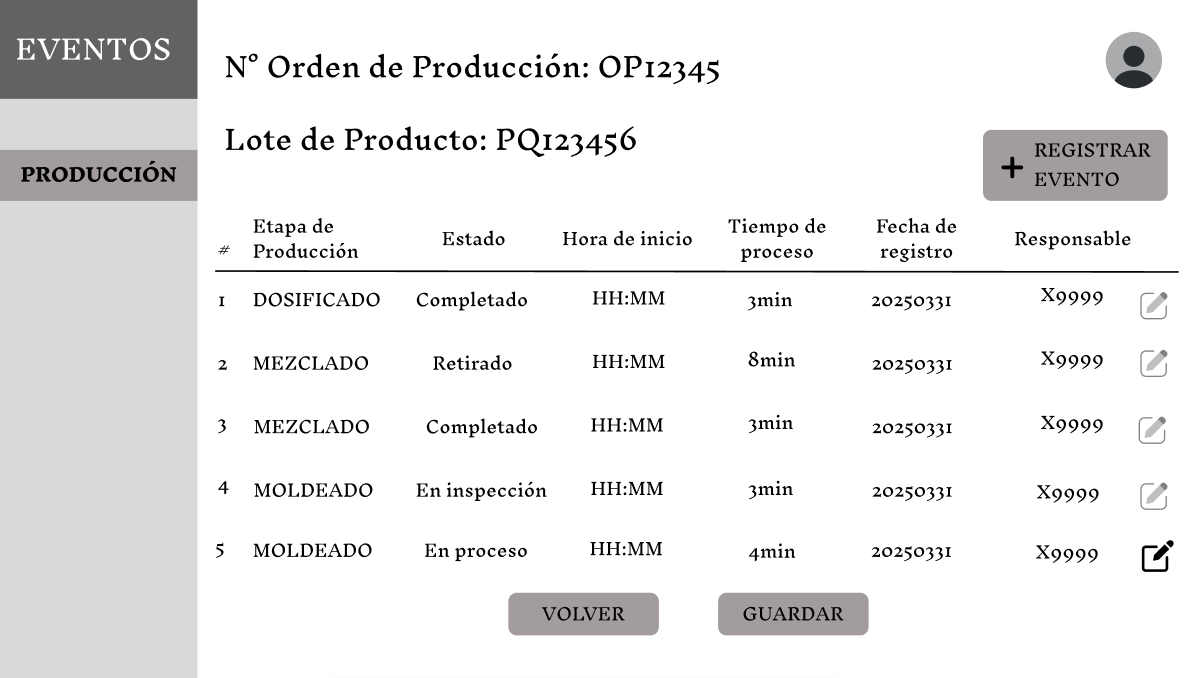
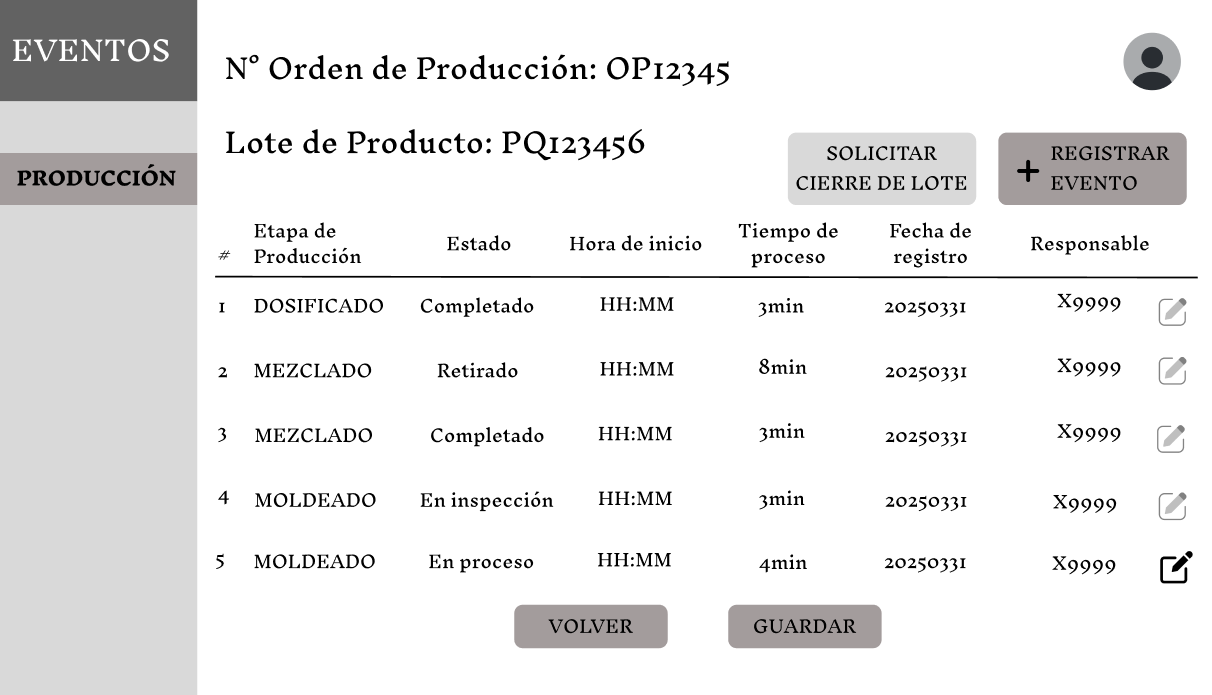
Requerimientos y prototipos de Proceso Productivo

diff --git a/3/3.1/3.1.md b/3/3.1/3.1.md
@@ -1,3 +1,129 @@
-# 3.1. Módulo 1
+# **3.1. Módulo Proceso Productivo**
 
-Sample content for section 3.1.
+## **Caso de uso #1: Visualizar eventos por lote**
+
+| **ID**                         | CU-01                                                                 |
+|-------------------------------|------------------------------------------------------------------------|
+| **Actor(es)**                  | Operario de Producción                         |
+| **Descripción**                | Muestra una tabla con todos los eventos de un lote, permitiendo su visualización, el poder agregar eventos y el cerrar el Lote de Producción. |
+| **Precondiciones**             | El usuario debe haber iniciado sesión y debe existir una Orden de Producción con Lote activo. |
+| **Flujo Principal**            | 1. El usuario accede a la vista de Lotes por Orden de Producción.<br>2. Selecciona un Lote de Producción.<br>3. Visualiza la tabla con los eventos.<br>4. Puede registrar eventos o solicitar el cierre del lote (si se ha culminado). |
+| **Requerimientos Especiales** | Orden de Producción con Lote activo. |
+| **Frecuencia de Uso**          | Constante. Orientado a usuarios paramétricos.                  |
+
+### **Flujo Principal:**
+1. El operario de Producción ingresa a la vista de Lotes por Orden de Producción. 
+![Lotes por Orden de Produccion](Prototipos/Control_Lotes_Produccion.png)
+2. Si el empleado escoge "Detalle" se visualizarán todos los eventos relacionados a un Lote de Producto. Mientras no tengan el estado de "Completado" o "En inspección" podrá editarlos.
+![Eventos por Lote](Prototipos/Vista_Eventos_Por_Lote.png)
+3. Si el operario escoge "Registrar evento" se desplagará una vista donde podrá elegir el tipo de evento que quiere registrar.
+![Vista Tipo de Evento](Prototipos/Registrar_Tipo_Evento.png)
+
+## **Caso de uso #2: Registrar datos del Dosificado**
+
+| **ID**                         | CU-02                                                                 |
+|-------------------------------|------------------------------------------------------------------------|
+| **Actor(es)**                  | Operario de Producción                                                 |
+| **Descripción**                | El operario ingresa el valor de las cantidades medidas de los insumos requeridos de acuerdo a la formulación. |
+| **Precondiciones**             | El usuario debe haber iniciado sesión y debe existir una Orden de Producción con Lote activo. |
+| **Flujo Principal**            | 1. El usuario elige el botón de "Registrar evento" desde la vista de eventos.<br>2. El sistema muestra la vista con los tipos de evento.<br>3. El usuario elige el evento de Dosificado<br>4. El usuario registra las cantidades dosificadas según el insumo mostrado, hora de inicio y hora de fin del proceso.<br>5. Se guarda el evento con fecha y responsable.<br>6. Se marca como completado.<br>5. Se envía a Control de Calidad. |
+| **Requerimientos Especiales** | Orden de Producción con Lote activo.       |
+| **Frecuencia de Uso**          | Constante. Orientado a usuarios paramétricos.                                 |
+
+### **Flujo Principal:**
+1. El operario eligió el botón de "Registrar Evento" de la vista de eventos por Lote.
+![Vista Tipo de Evento](Prototipos/Registrar_Tipo_Evento.png)
+2. Si el empleado escoge "Dosificado" se mostrará la pantalla donde tendrá que ingresar cada valor solicitado. La fecha y el responsable se registra automáticamente. Podrá editar los datos mientras no lo marque como completado.
+![Registro Dosificado](Prototipos/Registrar_Evento_Dosificado.png)
+3. Si lo marca como completado, el proceso se enviará a Control de Calidad y pasará al estado de "En inspección", una vez aprobado regresará al estado de "Completado".
+
+## **Caso de uso #3: Registrar datos del Mezclado**
+
+| **ID**                         | CU-03                                                                 |
+|-------------------------------|------------------------------------------------------------------------|
+| **Actor(es)**                  | Operario de Producción                                                 |
+| **Descripción**                | El operador registra los datos resaltantes para el evento de mezclado, como: máquina usada, tiempo del proceso, hora de inicio, merma, sus parámetros, etc. |
+| **Precondiciones**             | El lote debe haber sido dosificado previamente y haber pasado Control de Calidad.                       |
+| **Flujo Principal**            | 1. El usuario elige el botón de "Registrar evento" desde la vista de eventos.<br>2. El sistema muestra la vista con los tipos de evento.<br>3. El usuario elige el evento de Mezclado<br>4. El usuario registra la máquina usada, tiempo del proceso, hora de inicio, merma, sus parámetros, etc.<br>5. Se guarda el evento con fecha y responsable.<br>6. Se marca como completado.<br>5. Se envía a Control de Calidad. |
+| **Requerimientos Especiales** | Validación del evento de Dosificado por Control de Calidad.        |
+| **Frecuencia de Uso**          | Constante. Orientado a usuarios paramétricos.                                   |
+
+### **Flujo Principal:**
+1. El operario eligió el botón de "Registrar Evento" de la vista de eventos por Lote.
+![Vista Tipo de Evento](Prototipos/Registrar_Tipo_Evento.png)
+2. Si el empleado escoge "Mezclado" se mostrará la pantalla donde tendrá que ingresar cada valor solicitado. La fecha y el responsable se registra automáticamente. Podrá editar los datos mientras no lo marque como completado.
+![Registro Mezclado](Prototipos/Registrar_Evento_Mezclado.png)
+3. Si lo marca como completado, el proceso se enviará a Control de Calidad y pasará al estado de "En inspección", una vez aprobado regresará al estado de "Completado".
+
+## **Caso de uso #4: Registrar datos del Moldeado**
+
+| **ID**                         | CU-04                                                                 |
+|-------------------------------|------------------------------------------------------------------------|
+| **Actor(es)**                  | Operario de Producción                                                 |
+| **Descripción**                | El operador registra los datos resaltantes para el evento de moldeado, como: máquina usada, tiempo del proceso, hora de inicio, merma, tipo de boquilla, sus parámetros, etc. |
+| **Precondiciones**             | El lote debe haber sido mezclado previamente y haber pasado Control de Calidad.                       |
+| **Flujo Principal**            | 1. El usuario elige el botón de "Registrar evento" desde la vista de eventos.<br>2. El sistema muestra la vista con los tipos de evento.<br>3. El usuario elige el evento de Moldeado<br>4. El usuario registra la máquina usada, tiempo del proceso, hora de inicio, merma, tipo de boquilla, sus parámetros, etc.<br>5. Se guarda el evento con fecha y responsable.<br>6. Se marca como completado.<br>5. Se envía a Control de Calidad. |
+| **Requerimientos Especiales** | Validación del evento de Mezclado por Control de Calidad.        |
+| **Frecuencia de Uso**          | Constante. Orientado a usuarios paramétricos.                                   |
+
+### **Flujo Principal:**
+1. El operario eligió el botón de "Registrar Evento" de la vista de eventos por Lote.
+![Vista Tipo de Evento](Prototipos/Registrar_Tipo_Evento.png)
+2. Si el empleado escoge "Moldeado" se mostrará la pantalla donde tendrá que ingresar cada valor solicitado. La fecha y el responsable se registra automáticamente. Podrá editar los datos mientras no lo marque como completado.
+![Registro Moldeado](Prototipos/Registrar_Evento_Moldeado.png)
+3. Si lo marca como completado, el proceso se enviará a Control de Calidad y pasará al estado de "En inspección", una vez aprobado regresará al estado de "Completado".
+
+## **Caso de uso #5: Registrar datos del Secado**
+
+| **ID**                         | CU-05                                                                 |
+|-------------------------------|------------------------------------------------------------------------|
+| **Actor(es)**                  | Operario de Producción                                                 |
+| **Descripción**                | El operador registra los datos resaltantes para el evento de secado, como: máquina usada, tiempo del proceso, hora de inicio, merma, número de bandejas, sus parámetros, etc. |
+| **Precondiciones**             | El lote debe haber sido moldeado previamente y haber pasado Control de Calidad.                       |
+| **Flujo Principal**            | 1. El usuario elige el botón de "Registrar evento" desde la vista de eventos.<br>2. El sistema muestra la vista con los tipos de evento.<br>3. El usuario elige el evento de Mezclado<br>4. El usuario registra la máquina usada, tiempo del proceso, hora de inicio, merma, número de bandejas, sus parámetros, etc.<br>5. Se guarda el evento con fecha y responsable.<br>6. Se marca como completado.<br>5. Se envía a Control de Calidad. |
+| **Requerimientos Especiales** | Validación del evento de Moldeado por Control de Calidad.        |
+| **Frecuencia de Uso**          | Constante. Orientado a usuarios paramétricos.                                   |
+
+### **Flujo Principal:**
+1. El operario eligió el botón de "Registrar Evento" de la vista de eventos por Lote.
+![Vista Tipo de Evento](Prototipos/Registrar_Tipo_Evento.png)
+2. Si el empleado escoge "Secado" se mostrará la pantalla donde tendrá que ingresar cada valor solicitado. La fecha y el responsable se registra automáticamente. Podrá editar los datos mientras no lo marque como completado.
+![Registro Secado](Prototipos/Registrar_Evento_Secado.png)
+3. Si lo marca como completado, el proceso se enviará a Control de Calidad y pasará al estado de "En inspección", una vez aprobado regresará al estado de "Completado".
+
+## **Caso de uso #6: Registrar datos del Envasado**
+
+| **ID**                         | CU-06                                                                 |
+|-------------------------------|------------------------------------------------------------------------|
+| **Actor(es)**                  | Operario de Producción                                                 |
+| **Descripción**                | El operador registra los datos resaltantes para el evento de envasado, como: tipo de envase, tiempo del proceso, hora de inicio y peso. |
+| **Precondiciones**             | El lote debe haber sido secado previamente y haber pasado Control de Calidad.                       |
+| **Flujo Principal**            | 1. El usuario elige el botón de "Registrar evento" desde la vista de eventos.<br>2. El sistema muestra la vista con los tipos de evento.<br>3. El usuario elige el evento de Mezclado<br>4. El usuario registra el tipo de envase, tiempo del proceso, hora de inicio y peso.<br>5. Se guarda el evento con fecha y responsable.<br>6. Se marca como completado.<br>5. Se envía a Control de Calidad. |
+| **Requerimientos Especiales** | Validación del evento de Secado por Control de Calidad.        |
+| **Frecuencia de Uso**          | Constante. Orientado a usuarios paramétricos.                                   |
+
+### **Flujo Principal:**
+1. El operario eligió el botón de "Registrar Evento" de la vista de eventos por Lote.
+![Vista Tipo de Evento](Prototipos/Registrar_Tipo_Evento.png)
+2. Si el empleado escoge "Envasado" se mostrará la pantalla donde tendrá que ingresar cada valor solicitado. La fecha y el responsable se registra automáticamente. Podrá editar los datos mientras no lo marque como completado.
+![Registro Envasado](Prototipos/Registrar_Evento_Envasado.png)
+3. Si lo marca como completado, el proceso se enviará a Control de Calidad y pasará al estado de "En inspección", una vez aprobado regresará al estado de "Completado".
+
+## **Caso de uso #7: Solicitar y aprobar cierre de lote**
+
+| **ID**                         | CU-07                                                                 |
+|-------------------------------|------------------------------------------------------------------------|
+| **Actor(es)**                  | Operario de Producción                           |
+| **Descripción**                | El operario solicita el cierre de un Lote de Producción tras finalizar todas las etapas. |
+| **Precondiciones**             | Todas las etapas del lote deben estar registradas como “completadas”. |
+| **Flujo Principal**            | 1. El usuario solicita el cierre del lote desde la vista de eventos.<br>2. El sistema registra fecha y responsable.<br>3. Control de Producción recibe la solicitud. |
+| **Requerimientos Especiales** | Todos los eventos deben haber sido aceptados por Control de Calidad. |
+| **Frecuencia de Uso**          | Constante. Orientado a usuarios paramétricos.                                  |
+
+### **Flujo Principal:**
+1. El operario de Producción ingresa a la vista de eventos asociados a un Lote de Producto. 
+![Eventos por Lote](Prototipos/Vista_Eventos_Por_Lote.png)
+2. Si el empleado escoge "Solicitar Cierre de Lote" se mostrará un resumen de todos los eventos registrados a ese lote (todos deben estar en el estado de "Completado").
+![Solicitar Cierre Lote](Prototipos/Solicitar_Cierre_Lote.png)
+
+
